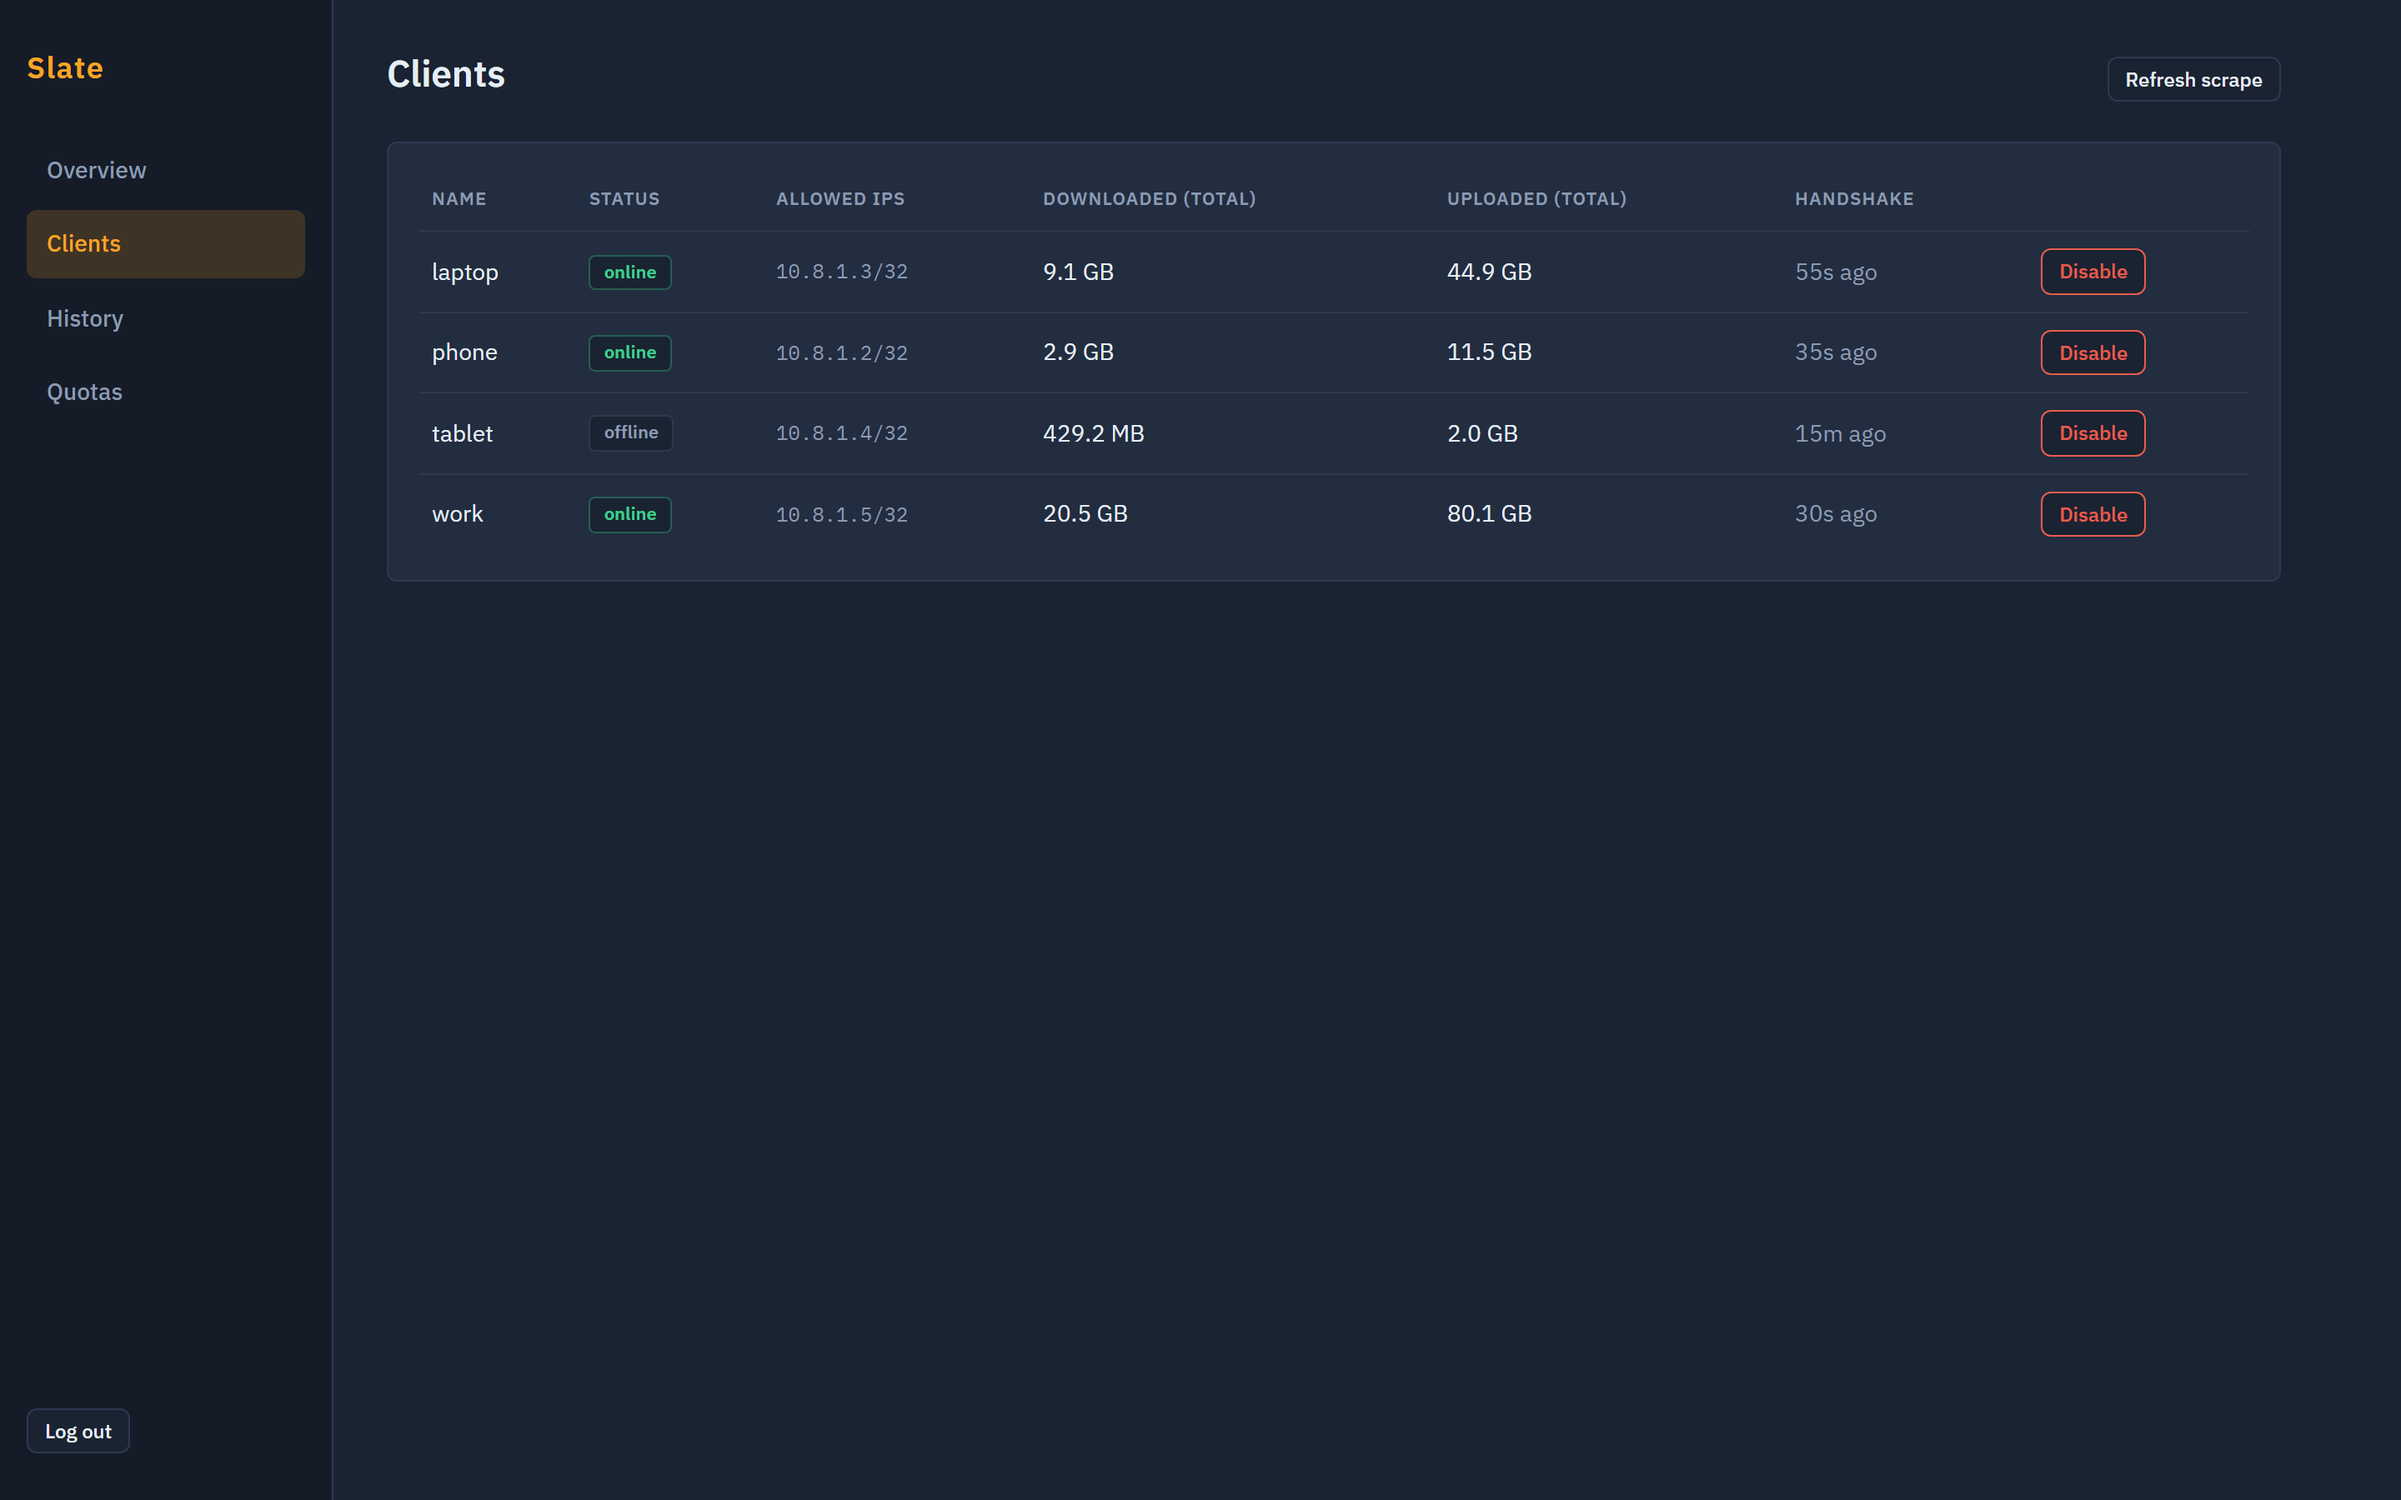
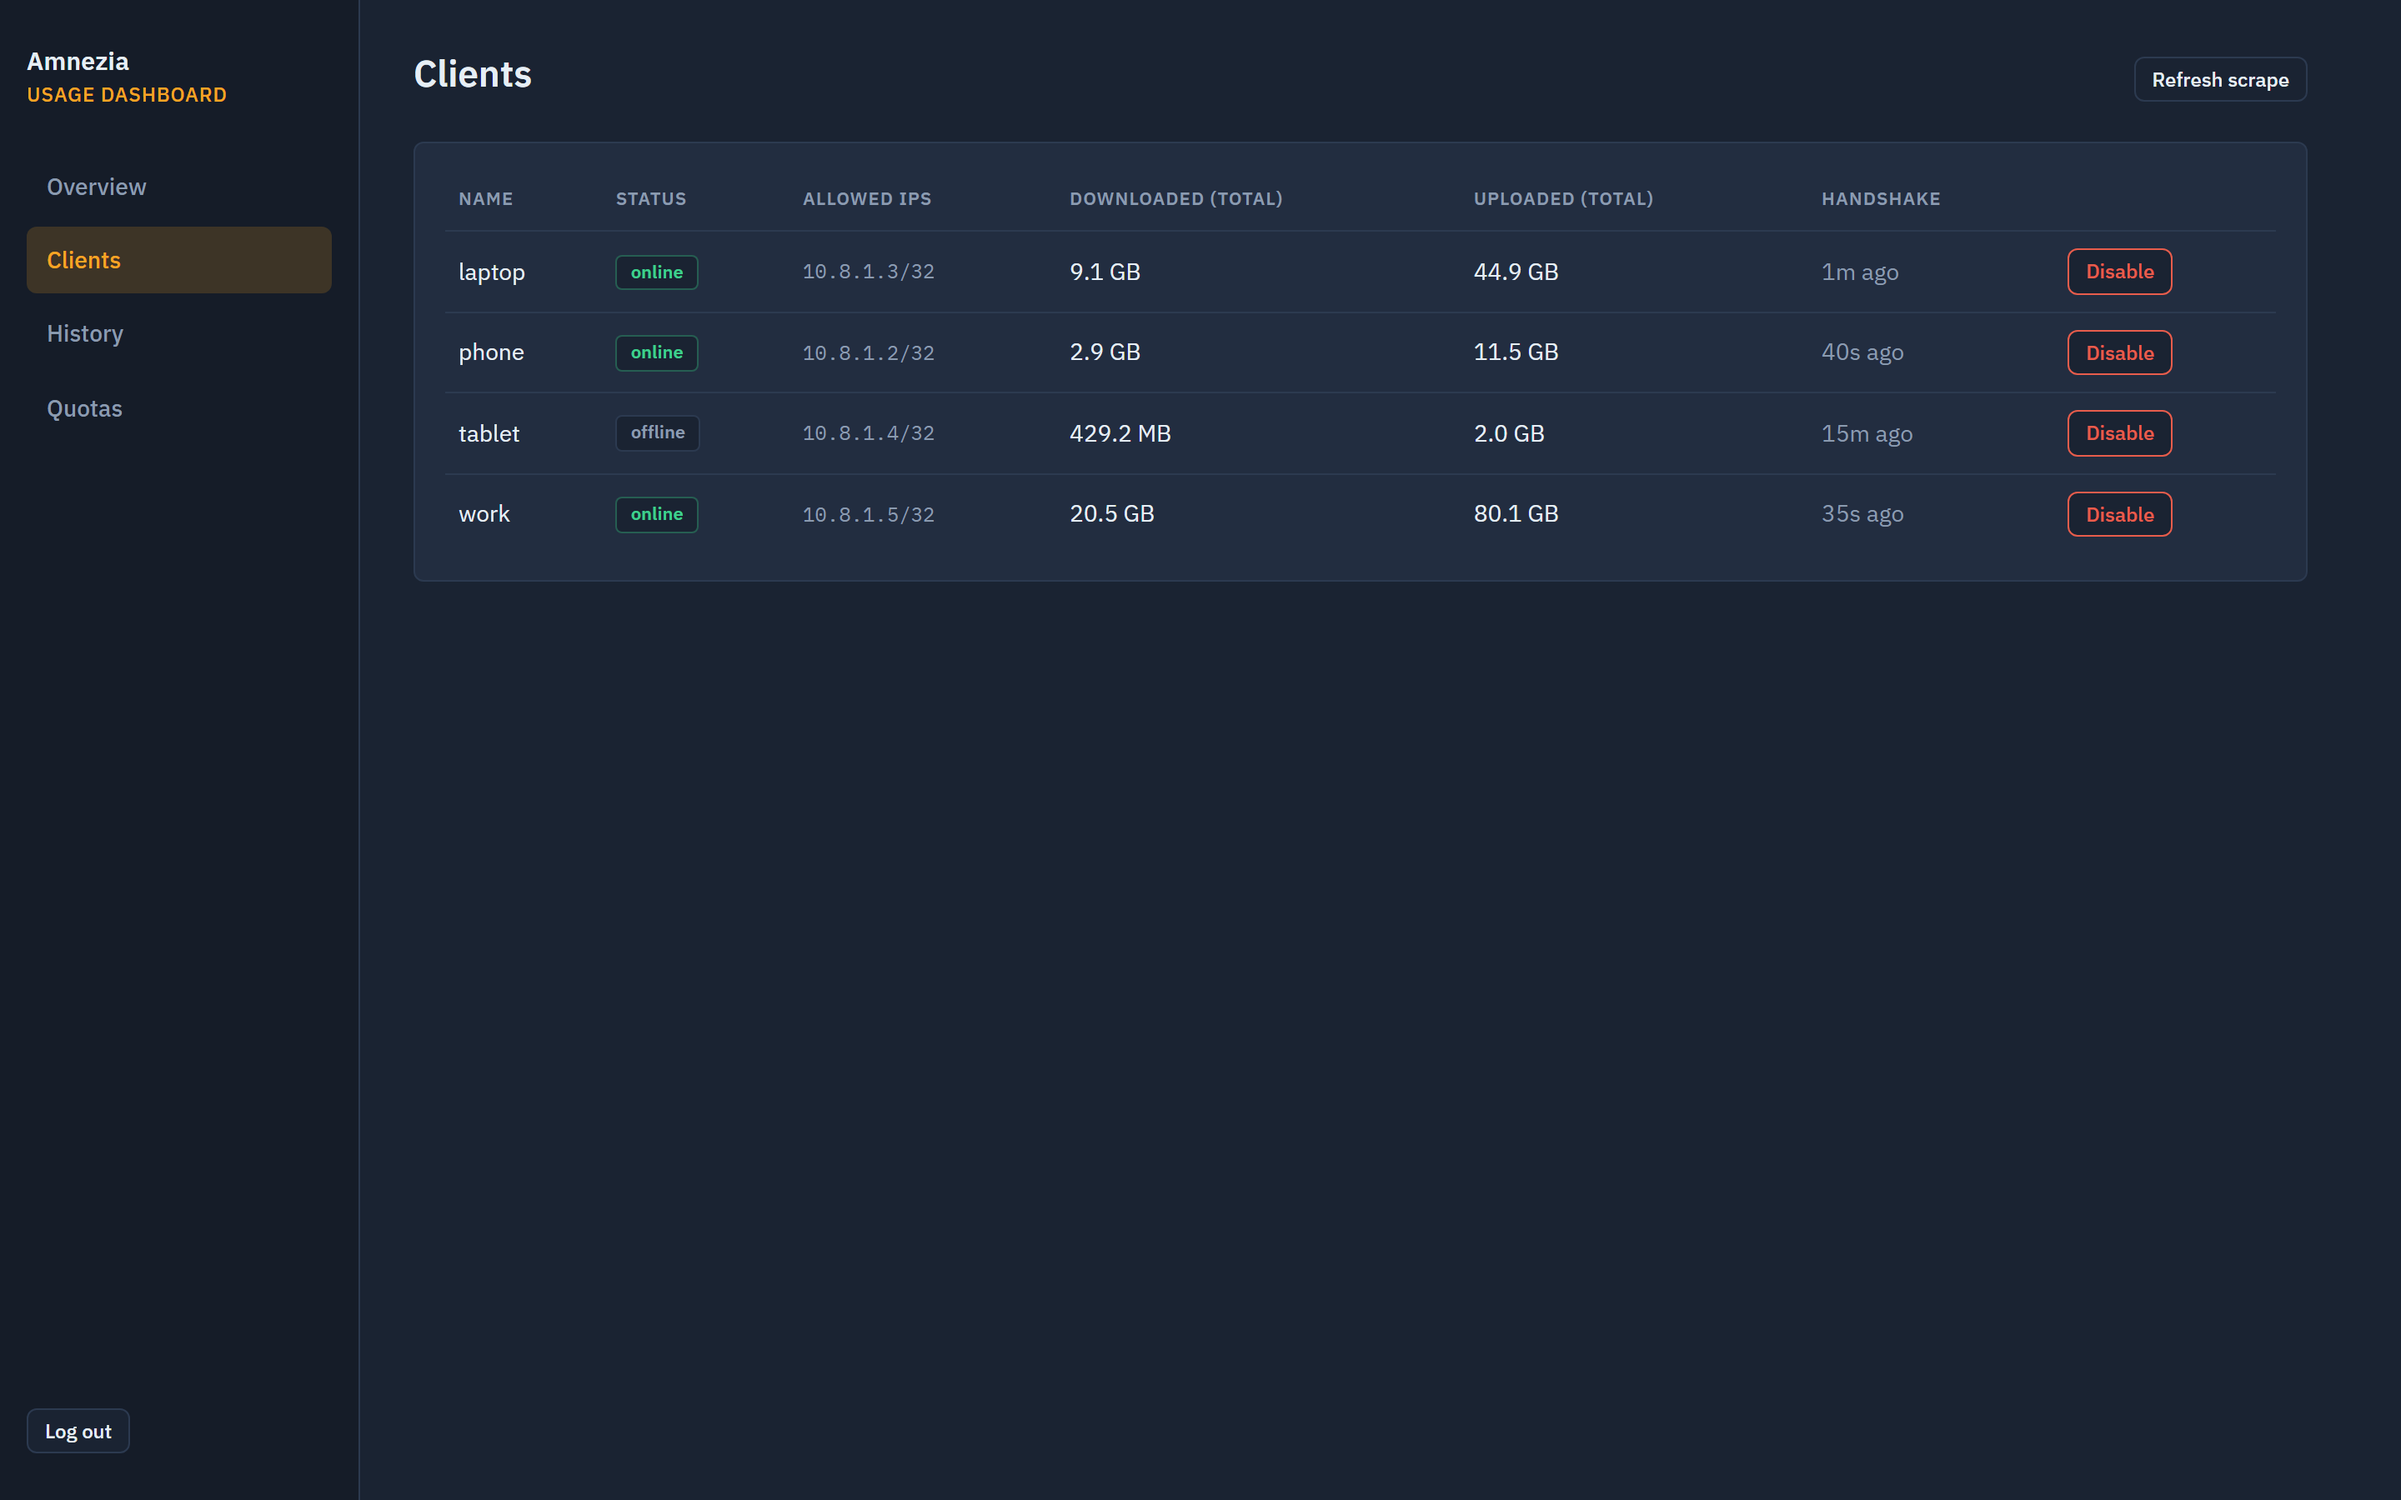
Rename the product to Amnezia Usage Dashboard.

diff --git a/app/templates/base.html b/app/templates/base.html
@@ -3,7 +3,7 @@
 <head>
   <meta charset="utf-8" />
   <meta name="viewport" content="width=device-width, initial-scale=1" />
-  <title>{% block title %}Slate{% endblock %}</title>
+  <title>{% block title %}Amnezia Usage Dashboard{% endblock %}</title>
   <link rel="preconnect" href="https://fonts.googleapis.com" />
   <link rel="preconnect" href="https://fonts.gstatic.com" crossorigin />
   <link href="https://fonts.googleapis.com/css2?family=IBM+Plex+Mono:wght@400;500&family=IBM+Plex+Sans:wght@400;500;600&display=swap" rel="stylesheet" />
@@ -15,7 +15,7 @@
 <body>
   <div class="shell">
     <aside class="rail">
-      <div class="brand">Slate</div>
+      <div class="brand">Amnezia <span>Usage Dashboard</span></div>
       <nav class="nav">
         <a href="/" class="{{ 'active' if active == 'overview' else '' }}">Overview</a>
         <a href="/clients" class="{{ 'active' if active == 'clients' else '' }}">Clients</a>

diff --git a/app/templates/login.html b/app/templates/login.html
@@ -3,7 +3,7 @@
 <head>
   <meta charset="utf-8" />
   <meta name="viewport" content="width=device-width, initial-scale=1" />
-  <title>Login · Slate</title>
+  <title>Login · Amnezia Usage Dashboard</title>
   <link rel="preconnect" href="https://fonts.googleapis.com" />
   <link rel="preconnect" href="https://fonts.gstatic.com" crossorigin />
   <link href="https://fonts.googleapis.com/css2?family=IBM+Plex+Sans:wght@400;500;600&display=swap" rel="stylesheet" />
@@ -12,8 +12,8 @@
 <body>
   <div class="login-wrap">
     <div class="login-card">
-      <h1>Slate</h1>
-      <p>AmneziaWG usage dashboard</p>
+      <h1>Amnezia</h1>
+      <p>Usage Dashboard</p>
       {% if error %}
       <div class="error-banner">{{ error }}</div>
       {% endif %}

diff --git a/app/static/styles.css b/app/static/styles.css
@@ -41,7 +41,7 @@ a:hover {
 
 .shell {
   display: grid;
-  grid-template-columns: 200px 1fr;
+  grid-template-columns: 216px 1fr;
   min-height: 100vh;
 }
 
@@ -55,9 +55,20 @@ a:hover {
 }
 
 .brand {
-  font-size: 18px;
+  font-size: 15px;
   font-weight: 600;
+  letter-spacing: 0.01em;
+  color: var(--text);
+  line-height: 1.25;
+}
+
+.brand span {
+  display: block;
+  margin-top: 2px;
+  font-size: 12px;
+  font-weight: 500;
   letter-spacing: 0.04em;
+  text-transform: uppercase;
   color: var(--accent);
 }
 

diff --git a/app/templates/overview.html b/app/templates/overview.html
@@ -1,5 +1,5 @@
 {% extends "base.html" %}
-{% block title %}Overview · Slate{% endblock %}
+{% block title %}Overview · Amnezia Usage Dashboard{% endblock %}
 {% block content %}
 <div class="topbar">
   <h1>Overview</h1>

diff --git a/app/templates/clients.html b/app/templates/clients.html
@@ -1,5 +1,5 @@
 {% extends "base.html" %}
-{% block title %}Clients · Slate{% endblock %}
+{% block title %}Clients · Amnezia Usage Dashboard{% endblock %}
 {% block content %}
 <div class="topbar">
   <h1>Clients</h1>

diff --git a/app/templates/history.html b/app/templates/history.html
@@ -1,5 +1,5 @@
 {% extends "base.html" %}
-{% block title %}History · Slate{% endblock %}
+{% block title %}History · Amnezia Usage Dashboard{% endblock %}
 {% block content %}
 <div class="topbar">
   <h1>History</h1>

diff --git a/app/templates/quotas.html b/app/templates/quotas.html
@@ -1,5 +1,5 @@
 {% extends "base.html" %}
-{% block title %}Quotas · Slate{% endblock %}
+{% block title %}Quotas · Amnezia Usage Dashboard{% endblock %}
 {% block content %}
 <div class="topbar">
   <h1>Quotas</h1>

diff --git a/app/main.py b/app/main.py
@@ -68,7 +68,7 @@ def create_app() -> FastAPI:
         await collector.stop()
         await db.close()
 
-    app = FastAPI(title="Slate", docs_url=None, redoc_url=None, lifespan=lifespan)
+    app = FastAPI(title="Amnezia Usage Dashboard", docs_url=None, redoc_url=None, lifespan=lifespan)
     app.add_middleware(
         SessionMiddleware,
         secret_key=settings.secret_key,

diff --git a/scripts/capture_screenshots.py b/scripts/capture_screenshots.py
@@ -1,4 +1,4 @@
-"""Capture demo-mode screenshots for the README. Requires a running Slate instance."""
+"""Capture demo-mode screenshots for the README. Requires a running dashboard instance."""
 
 from pathlib import Path
 

diff --git a/README.md b/README.md
@@ -1,10 +1,10 @@
-# Slate
+# Amnezia Usage Dashboard
 
-A small **AmneziaWG** dashboard: who is online, how much they transferred, history, and optional traffic quotas.
+A small dashboard for **AmneziaWG**: who is online, how much they transferred, history, and optional traffic quotas.
 
 Built for a single VPS and a handful of peers. FastAPI + SQLite, one Docker Compose file, no extra monitoring stack.
 
-[English](#slate) · [Русский](#русский)
+[English](#amnezia-usage-dashboard) · [Русский](#русский)
 
 ![Overview](docs/screenshots/overview.png)
 
@@ -33,11 +33,11 @@ Demo data (`phone`, `laptop`, `tablet`, `work`) — not a real VPN.
 
 ## Quick start (VPS)
 
-AmneziaWG should already be running in Docker. Slate talks to that container through a **socket proxy** (not a raw `docker.sock` mount).
+AmneziaWG should already be running in Docker. The dashboard talks to that container through a **socket proxy** (not a raw `docker.sock` mount).
 
 ```bash
-git clone https://github.com/meledinalexander/amnezia-slate.git
-cd amnezia-slate
+git clone https://github.com/meledinalexander/amnezia-usage-dashboard.git
+cd amnezia-usage-dashboard
 cp .env.example .env
 # set ADMIN_PASSWORD, SECRET_KEY, AWG_CONTAINER
 docker ps --format '{{.Names}}' | grep -iE 'awg|amnezia'
@@ -88,7 +88,7 @@ MIT
 
 ## Русский
 
-Лёгкая панель статистики для **AmneziaWG**: кто онлайн, сколько скачал и отдал, история, квоты с авто-отключением.
+**Amnezia Usage Dashboard** — лёгкая панель статистики для **AmneziaWG**: кто онлайн, сколько скачал и отдал, история, квоты с авто-отключением.
 
 Один VPS, десяток клиентов, Docker Compose. Трафик в интерфейсе — **с точки зрения клиента** (Downloaded / Uploaded).
 
